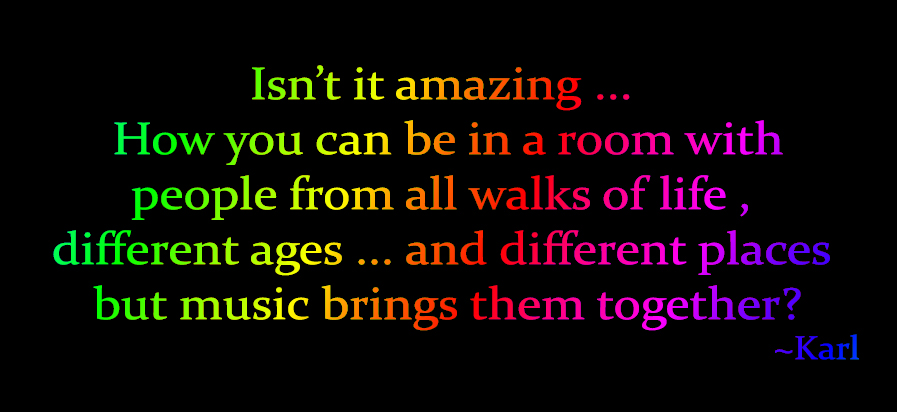
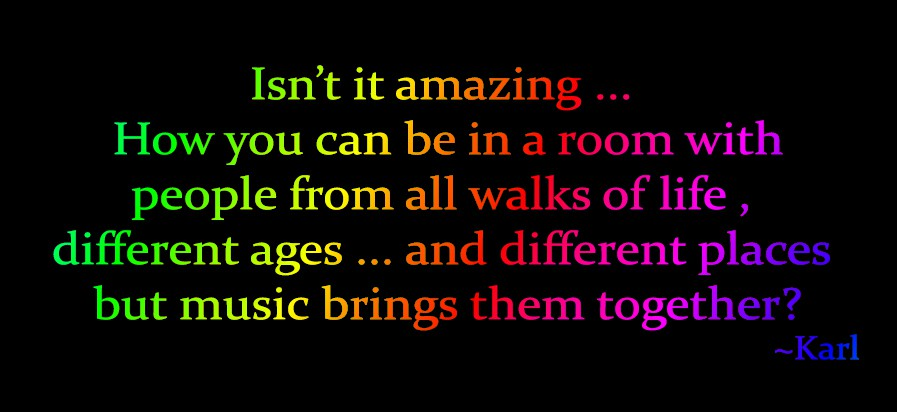
Image optimizations

diff --git a/index.html b/index.html
@@ -129,7 +129,7 @@
     <a-entity position="3 0.50 12" mixin="model1"rotation="-60 90 0"scale="1.5 1.5 1.5" instantiator="on: click;group: model1; mixin: model1 parent-to-right-hand"></a-entity>
     
     <!--main sign -->
-    <a-plane src="images/rainbowroomwelcomesign.png" height="5" width="11.2" rotation="0 180 0" radius="2" side="double"
+    <a-plane src="images/rainbowroomwelcomesign.jpg" height="5" width="11.2" rotation="0 180 0" radius="2" side="double"
              position="1.89 7.2 31.6">
     </a-plane>
     
